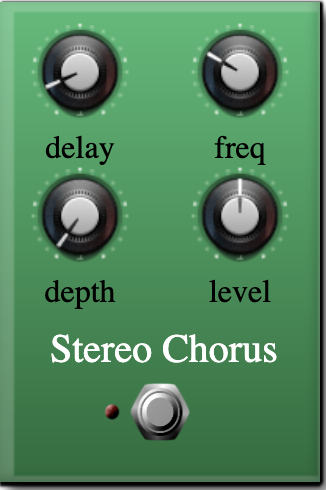
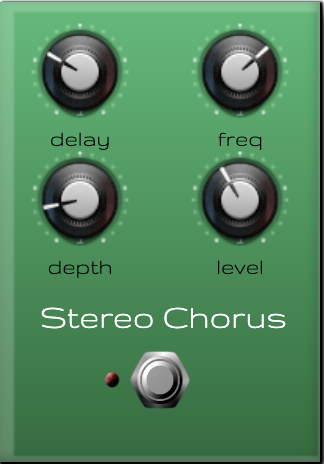
changing style

diff --git a/jordan-SINTES/ReverbRaw/main.html b/jordan-SINTES/ReverbRaw/main.html
@@ -1,3 +1,6 @@
+<link rel="stylesheet"
+          href="https://fonts.googleapis.com/css?family=Jockey+One">
+
 <script
     src="https://wasabi.i3s.unice.fr/WebAudioPluginBank/bower_components/webaudio-controls2/webcomponents-lite.js"></script>
 <script>
@@ -6,20 +9,11 @@
     };
 </script>
 
-<style>
-    @font-face {
-        font-family: "DarkMoon";
-        src: url('assets/font/DarkMoon.otf') format('otf');
-        font-weight: normal;
-        font-style: normal;
-    }
-</style>
 <script
     src="https://wasabi.i3s.unice.fr/WebAudioPluginBank/bower_components/webaudio-controls2/webaudio-controls.js"></script>
 <template>
     <style>
         :host {
-            font: "DarkMoon", 'Arial Black';
             display: block;
             box-shadow: 4px 5px 6px rgba(0, 0, 0, 0.7), inset -2px -2px 5px 0px rgba(0, 0, 0, 0.2), inset 3px 1px 1px 4px rgba(255, 255, 255, 0.2), 1px 0px 1px 0px rgba(0, 0, 0, 0.9), 0 2px 1px 0 rgba(0, 0, 0, 0.9), 1px 1px 1px 0px rgba(0, 0, 0, 0.9);
             background: linear-gradient(rgb(84, 38, 116), rgb(57, 20, 82));
@@ -29,6 +23,8 @@
             user-select: none;
             cursor: move;
             z-index: 9;
+            font-family: "Jockey One";
+            font-size: 14px;
             /* bring your own prefixes */
         }
 
@@ -96,7 +92,6 @@
             top: 225px;
             font-size: 30px;
             /*{font}*/
-            font-family: "DarkMoon";
             text-align: center;
             line-height: 30px;
             /*{pedalfontsize}*/
@@ -125,19 +120,19 @@
                 <div class="knob" id="highX">
                     <webaudio-knob src="assets/img/knobs/Carbon.png" height="50" width="50" sprites="100" min="0"
                         max="1" step="0.01" value="1" id="/ReverbRaw/highX" style="height: 50px;"></webaudio-knob>
-                    <div style="text-align:center; font-family: DarkMoon;">highX</div>
+                    <div style="text-align:center; ">highX</div>
                 </div>
 
                 <div class="knob" id="midX">
                     <webaudio-knob src="assets/img/knobs/Carbon.png" height="50" width="50" sprites="100" min="0"
                         max="1" step="0.01" value="1" id="/ReverbRaw/midX" style="height: 50px;"></webaudio-knob>
-                    <div style="text-align:center; font-family: DarkMoon;">midX</div>
+                    <div style="text-align:center; ">midX</div>
                 </div>
 
                 <div class="knob" id="lowX">
                     <webaudio-knob src="assets/img/knobs/Carbon.png" height="50" width="50" sprites="100" min="0"
                         max="1" step="0.01" value="1" id="/ReverbRaw/lowX" style="height: 50px;"></webaudio-knob>
-                    <div style="text-align:center; font-family: DarkMoon;">lowX</div>
+                    <div style="text-align:center; ">lowX</div>
                 </div>
             </div>
             <div class="column">
@@ -147,19 +142,19 @@
                     <webaudio-knob src="assets/img/knobs/Carbon.png" height="50" width="50" sprites="100" min="1000"
                         max="10000" step="0.1" value="2000" id="/ReverbRaw/highBand" style="height: 50px;">
                     </webaudio-knob>
-                    <div style="text-align:center; font-family: DarkMoon;">highBand</div>
+                    <div style="text-align:center; ">highBand</div>
                 </div>
 
                 <div class="knob" id="lowBand">
                     <webaudio-knob src="assets/img/knobs/Carbon.png" height="50" width="50" sprites="100" min="100"
                         max="6000" step="0.1" value="500" id="/ReverbRaw/lowBand" style="height: 50px;"></webaudio-knob>
-                    <div style="text-align:center; font-family: DarkMoon;">lowBand</div>
+                    <div style="text-align:center; ">lowBand</div>
                 </div>
 
                 <div class="button" id="doc">
                     <a href="http://doc.sccode.org/Classes/JPverb.html" target="_blank"><img
                             src="assets/img/icons/icon_doc.png" height="20" width="20"></img></a>
-                    <div style="text-align:center; font-family: DarkMoon; color:rgb(255,255,255)">doc</div>
+                    <div style="text-align:center;  color:rgb(255,255,255)">doc</div>
                 </div>
 
             </div>
@@ -168,21 +163,21 @@
                 <div class="knob" id="mDepth">
                     <webaudio-knob src="assets/img/knobs/Carbon.png" height="50" width="50" sprites="100" min="0"
                         max="1" step="0.001" value="0.1" id="/ReverbRaw/mDepth" style="height: 50px;"></webaudio-knob>
-                    <div style="text-align:center; font-family: DarkMoon;">mDepth</div>
+                    <div style="text-align:center; ">mDepth</div>
                 </div>
 
 
                 <div class="knob" id="mFreq">
                     <webaudio-knob src="assets/img/knobs/Carbon.png" height="50" width="50" sprites="100" min="0"
                         max="10" step="0.01" value="2" id="/ReverbRaw/mFreq" style="height: 50px;"></webaudio-knob>
-                    <div style="text-align:center; font-family: DarkMoon;">mFreq</div>
+                    <div style="text-align:center; ">mFreq</div>
                 </div>
 
                 <div class="knob" id="earlyDiff">
                     <webaudio-knob src="assets/img/knobs/Carbon.png" height="50" width="50" sprites="100" min="0"
                         max="0.99" step="0.001" value="0.707" id="/ReverbRaw/earlyDiff" style="height: 50px;">
                     </webaudio-knob>
-                    <div style="text-align:center; font-family: DarkMoon;">earlyDiff</div>
+                    <div style="text-align:center; ">earlyDiff</div>
                 </div>
             </div>
 
@@ -193,25 +188,25 @@
             <div class="knob" id="damp">
                 <webaudio-knob src="assets/img/knobs/Carbon.png" height="50" width="50" sprites="100" min="0"
                     max="0.999" step="0.0001" value="0" id="/ReverbRaw/damp" style="height: 50px;"></webaudio-knob>
-                <div style="text-align:center; font-family: DarkMoon;">damp</div>
+                <div style="text-align:center; ">damp</div>
             </div>
             <div class="knob" id="size">
                 <webaudio-knob src="assets/img/knobs/Carbon.png" height="50" width="50" sprites="100" min="0.5" max="3"
                     step="0.01" value="1" id="/ReverbRaw/size" style="height: 50px;"></webaudio-knob>
-                <div style="text-align:center; font-family: DarkMoon;">size</div>
+                <div style="text-align:center; ">size</div>
             </div>
 
             <div class="knob" id="wet">
                 <webaudio-knob src="assets/img/knobs/Carbon.png" height="50" width="50" sprites="100" min="0" max="1"
                     step="0.01" value="0.5" id="/ReverbRaw/wet" style="height: 50px;"></webaudio-knob>
-                <div style="text-align:center; font-family: DarkMoon;">wet</div>
+                <div style="text-align:center; ">wet</div>
             </div>
 
             <div class="knob" id="t60">
                 <webaudio-knob src="assets/img/knobs/greenish_sloped.png" height="30" width="30" sprites="100" min="0.1"
                     max="60" step="0.1" value="1" id="/ReverbRaw/t60" style="height: 50px; margin-top: 8px;">
                 </webaudio-knob>
-                <div style="text-align:center; font-family: DarkMoon;">t60</div>
+                <div style="text-align:center; ">t60</div>
             </div>
         </div>
         <span class="pedalLabel">JPVerb</span>

diff --git a/jordan-SINTES/stereoChorus/main.html b/jordan-SINTES/stereoChorus/main.html
@@ -1,3 +1,5 @@
+<link rel="stylesheet"
+          href="https://fonts.googleapis.com/css?family=Gruppo">
 <script
     src="https://wasabi.i3s.unice.fr/WebAudioPluginBank/bower_components/webaudio-controls2/webcomponents-lite.js"></script>
 <script>
@@ -10,16 +12,17 @@
 <template>
     <style>
         :host {
-            font: "DarkMoon", 'Arial Black';
             display: block;
             box-shadow: 4px 5px 6px rgba(0, 0, 0, 0.7), inset -2px -2px 5px 0px rgba(0, 0, 0, 0.2), inset 3px 1px 1px 4px rgba(255, 255, 255, 0.2), 1px 0px 1px 0px rgba(0, 0, 0, 0.9), 0 2px 1px 0 rgba(0, 0, 0, 0.9), 1px 1px 1px 0px rgba(0, 0, 0, 0.9);
             background: linear-gradient(rgb(65, 189, 117), rgb(27, 109, 58));
             position: relative;
             width: 160px;
-            height: 240px;
+            height: 230px;
             user-select: none;
             cursor: move;
             z-index: 9;
+            font-family: "Gruppo";
+            font-size: 12px;
             /* bring your own prefixes */
         }
 
@@ -73,11 +76,10 @@
         }
 
         .pedalLabel {
-            margin-left: 25px;
+            margin-left: 20px;
             top: 225px;
-            font-size: 20px;
+            font-size: 18px;
             /*{font}*/
-            font-family: "DarkMoon";
             text-align: center;
             line-height: 30px;
             /*{pedalfontsize}*/
@@ -192,7 +194,7 @@
                 },
                 dataHeight: {
                     type: Number,
-                    value: 240
+                    value: 230
                 }
             };
             return this.boundingRect;
